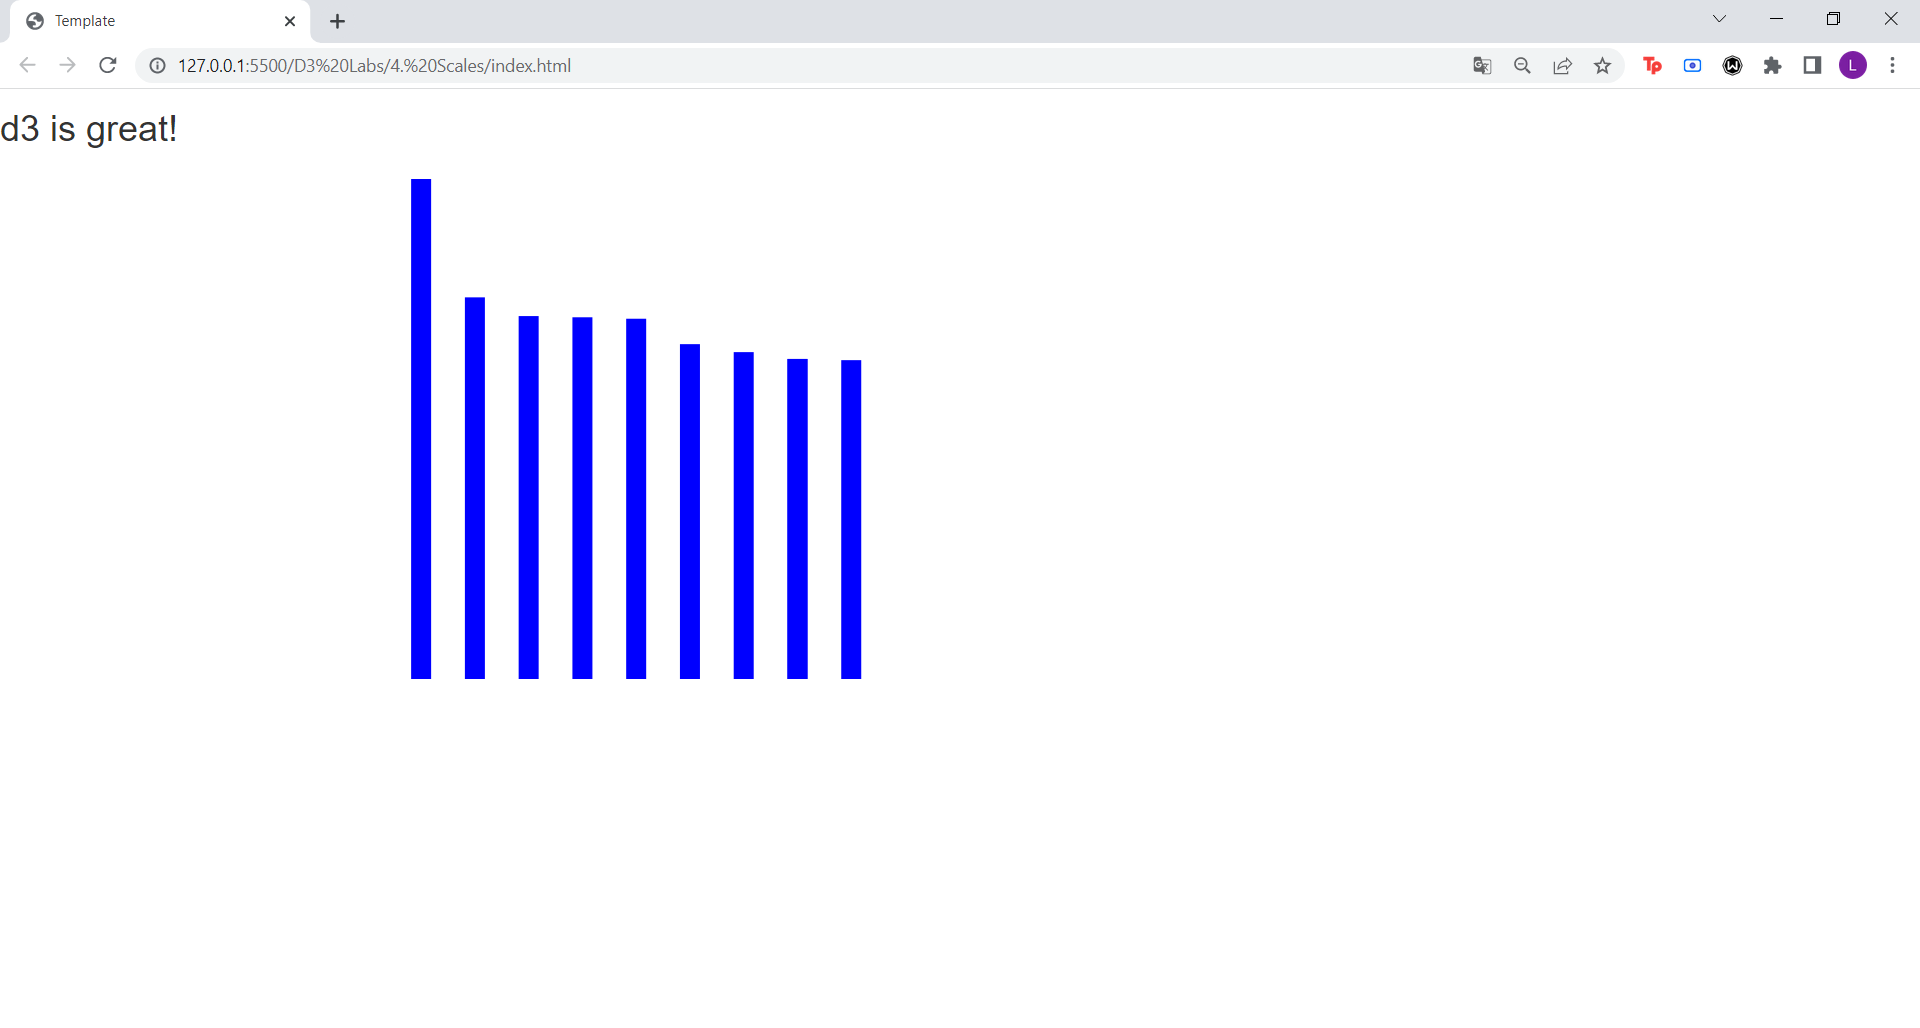
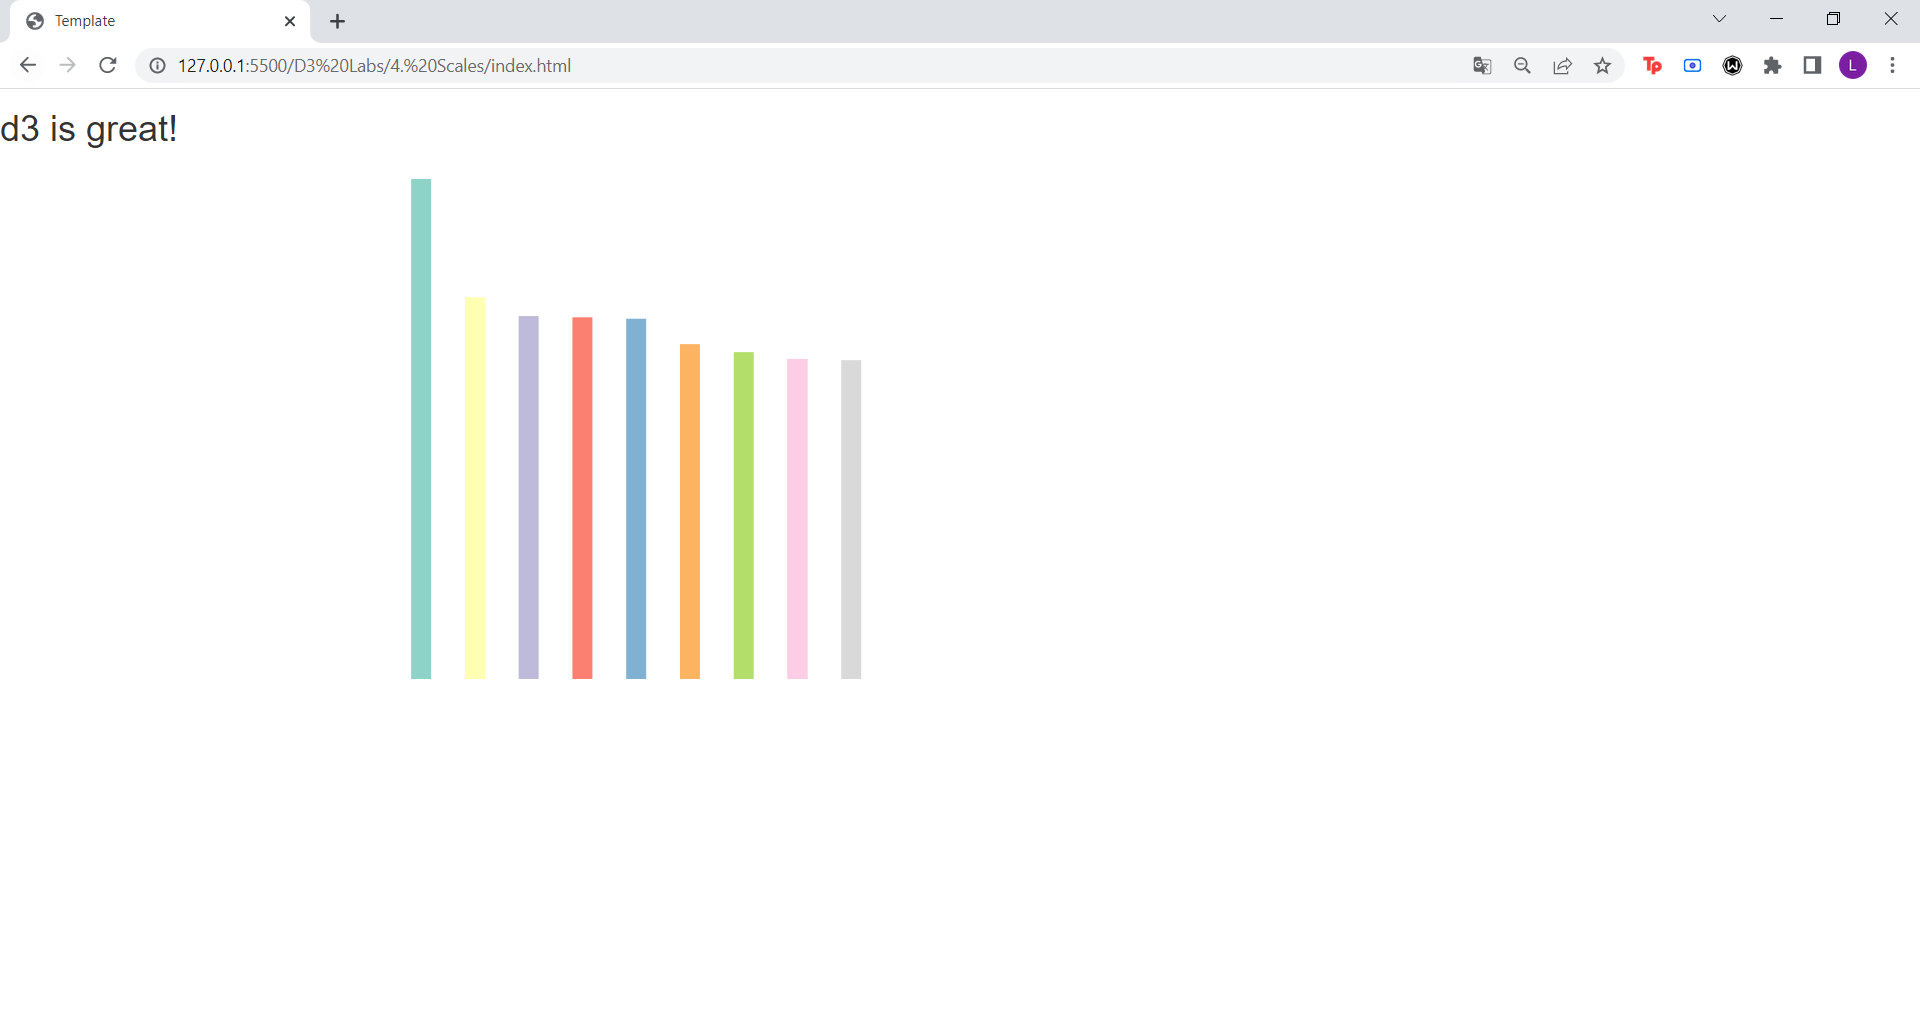
Corrected exercise 4

Changed region(s): [[0.1875, 0.187, 0.4688, 0.6855]]

diff --git a/4. Scales/js/main.js b/4. Scales/js/main.js
@@ -18,6 +18,10 @@ const svg = d3.select("#chart-area").append("svg")
     var y = d3.scaleLinear()
       .domain([0, 828])
       .range([0, 500]);
+
+    var color = d3.scaleOrdinal()
+      .domain(buildingsData)
+      .range(d3.schemeSet3);
   
     var rects = svg.selectAll('rect')
       .data(buildingsData)
@@ -27,7 +31,7 @@ const svg = d3.select("#chart-area").append("svg")
       .attr('y', (d) => 500 - y(d))
       .attr('width', 20)
       .attr('height', (d) => y(d))
-      .attr('fill', 'blue');
+      .attr('fill', (d) => color(d));
   }).catch((error) => {
     console.log(error);
   });
